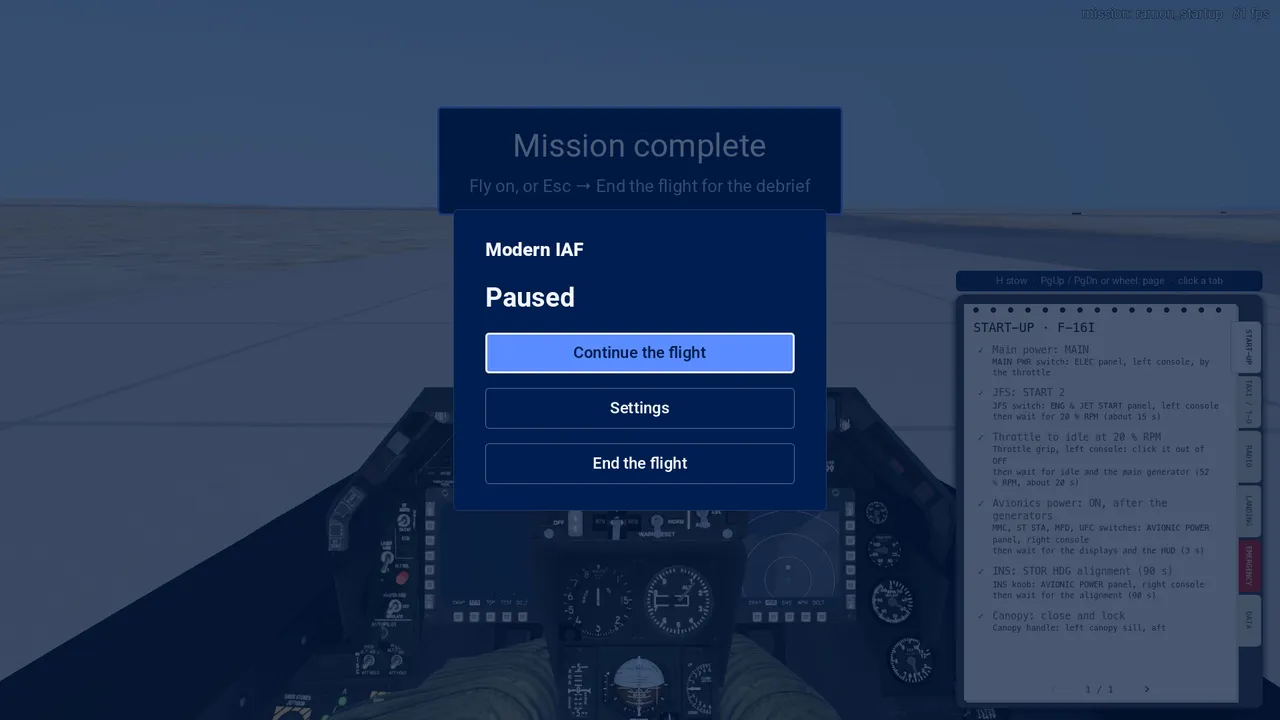
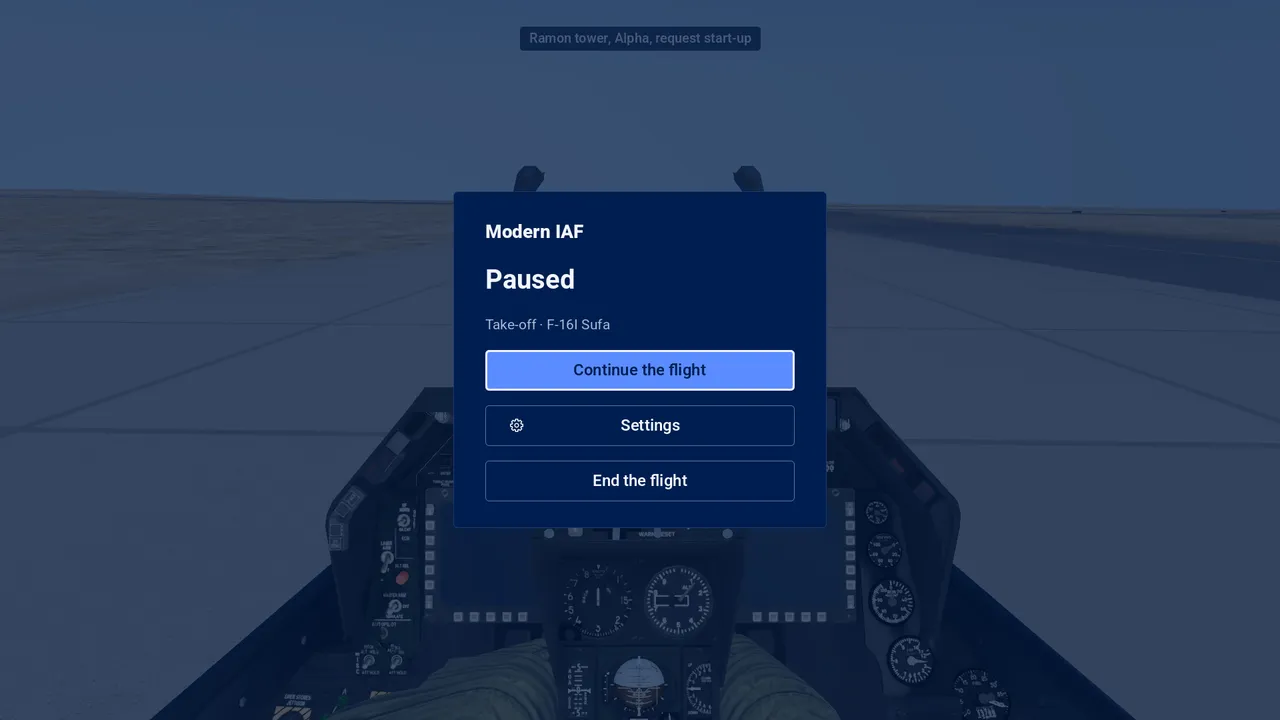
Modern IAF flight path: the pause menu names the mission and jet, the Settings over the flight get the front end's bars (finish list F4)
The pause menu shows "<mission> · <jet>" under Paused. The Settings, Keys and Joystick screens over a flight now have
the front end's top bar (crumbs from Paused, the pilot and the jet) and a footer with Back; a crumb back to the pause
menu applies the settings as Esc does. A row's few choices stand side by side, so the Graphics section fits between
the bars with VSync whole (it was cut at the bottom). training.md §11's frame-cost table and pictures filled; the
docs' pause pictures re-shot with the gear. test_front_end checks the line, the crumb, the Back and the whole section.

Reuse: the front end's own _header / _footer / back_button over the flight; nothing new.

Claude-Session: https://claude.ai/code/session_01HfoaXprFkEdj69GCkKmySt

diff --git a/modern-iaf/docs/front-end.md b/modern-iaf/docs/front-end.md
@@ -48,7 +48,8 @@ a voice; the flight runs on meanwhile. The pilot's notebook (H) and the radio me
 A fail shows a banner with "Fail" and the reason; about 5 s later the flight ends into its debrief
 ([training.md](training.md) §9).
 
-Over a flight, Esc opens the pause menu: Continue the flight, Settings, End the flight. It is laid out on the
+Over a flight, Esc opens the pause menu: the mission and the jet flown ("Take-off · F-16I Sufa"), then Continue the
+flight, Settings, End the flight. It is laid out on the
 front end's canvas scaled to the window and centred by a container, so it sits in the middle at any window size and in
 either language (the Mac run of 2026-11-08: in Hebrew in a 2560 × 1440 window the overlay mirrored its own position
 by its unscaled width and sat off the right edge, its buttons' labels outside the screen). Ending a training flight
@@ -62,6 +63,7 @@ the record's `checks` ([training.md](training.md) §4); every other number stays
 | screen | English | Hebrew |
 |---|---|---|
 | the pause menu over the flight | ![Pause menu](pictures/front-end/pause_en.webp) | ![Pause menu, Hebrew](pictures/front-end/pause_he.webp) |
+| the Settings over the flight: the front end's top bar (the crumb Paused goes back to the pause menu) and a footer with Back | ![Settings over the flight](pictures/front-end/flight_prefs_en.webp) | ![Settings over the flight, Hebrew](pictures/front-end/flight_prefs_he.webp) |
 | a training mission accomplished: the flight paused | ![Mission accomplished](pictures/front-end/accomplished_en.webp) | ![Mission accomplished, Hebrew](pictures/front-end/accomplished_he.webp) |
 | a failed debrief from before the goals and the recording (a take-off with the gear never raised): its numbers, the right column's empty state | ![Failed debrief](pictures/front-end/debrief_fail_en.webp) | ![Failed debrief, Hebrew](pictures/front-end/debrief_fail_he.webp) |
 | the debrief of that flight | ![Debrief after a flight](pictures/front-end/flown_debrief_en.webp) | ![Debrief after a flight, Hebrew](pictures/front-end/flown_debrief_he.webp) |
@@ -246,8 +248,12 @@ centreline in the roll.
 - **Settings** ("Preferences" until 2026-11-14, the approved mocks' word): one screen: the sections listed at the inline start, the picked one's rows beside them (Graphics
   until one is picked; the user, 2026-11-09, of the screen per section: "I liked it more before"). The section's pane
   scrolls over its full height, its scroll bar running from its top to its bottom. A row shows its name and its
-  control, no line under it; a greyed row says why (Scenery without its setup step, §4). Over a flight Esc on the
-  Settings goes back to the pause menu; the Keys and Joystick screens go back to the Settings on Devices. Tried
+  control, no line under it; a greyed row says why (Scenery without its setup step, §4). A row's few choices (Clouds,
+  Buildings and trees, the Devices rows) stand side by side, so the Graphics section fits between the bars at
+  1920 × 1080 with no row cut. Over a flight the Settings, Keys and Joystick screens have the front end's top bar (the
+  crumbs start at Paused, the pilot and the jet at the inline end) and a footer with Back (since 2026-11-16, finish
+  list F4; before, a bare title and no Back); Esc or Back on the Settings goes back to the pause menu, and the Keys
+  and Joystick screens go back to the Settings on Devices. Tried
   2026-11-08 and dropped 2026-11-09: one screen per section, the list as cards with the rows' names under each
   section. Realism and aids have no switch (plan.md "physics";
   the user, 2026-11-08): the sim's `PROFILE` (`modern-iaf/sim_settings.gd`) fixes the original Gameplay page's aids off

diff --git a/modern-iaf/docs/training.md b/modern-iaf/docs/training.md
@@ -515,11 +515,27 @@ checked).
 **The frame cost** (`_notebook_shot.gd` with `NB_BENCH=1`, 1920 x 1080, this Linux laptop's Intel Iris Xe, 300 frames
 each, the scripts' process time and the GPU's render time of the window and the cockpit's world):
 
-NB_BENCH_TABLE
+| head and notebook | GPU, notebook off | GPU, notebook on | the notebook's script |
+|---|---|---|---|
+| stowed, looking ahead (the thigh out of view) | 26.3 ms | 29.8 ms | 0.022 ms |
+| stowed, looking down at it | 43.2 ms | 44.2 ms | 0.031 ms |
+| raised | 34.1 ms | 28.5 ms | 0.011 ms |
+| raised, the training ring in view | 32.4 ms | 32.5 ms | 0.015 ms |
+
+Measured 2026-11-16. The GPU's frame time moves by several ms from run to run on this laptop (the "raised" row is
+faster with the notebook on), so the notebook's GPU cost is within that noise; its script costs under 0.04 ms a
+frame.
 
 **The pictures** (`modern-iaf/tests/_notebook_shot.gd`, a real render, its header):
 
-NB_PICTURES
+| | |
+|---|---|
+| ![The first start-up: the raised notebook with its help line](pictures/notebook/first_training.webp) | ![Raised at START-UP, the step to take now on its yellow band](pictures/notebook/raised_en.webp) |
+| ![The Hebrew notebook, mirrored](pictures/notebook/raised_he.webp) | ![The RADIO page: Ramon's frequencies and the calls](pictures/notebook/radio.webp) |
+| ![A section's second page, ‹ and › both live](pictures/notebook/pages.webp) | ![Stowed on the right thigh](pictures/notebook/stowed.webp) |
+| ![The training ring on the RPM gauge, the notebook slid down off it](pictures/notebook/training.webp) | ![A step's part out of the view: the pointer at the screen's edge](pictures/notebook/edge.webp) |
+
+Taken 2026-11-16 at 1920 x 1080 on this Linux laptop.
 
 **Checks.** `modern-iaf/tests/test_notebook.gd` (headless): the start-up mission raises it at START-UP with the first
 step current and no key on the page, the help line once, H stows it into the thigh's texture and raises it (K leaves it), a step

diff --git a/modern-iaf/docs/status.md b/modern-iaf/docs/status.md
@@ -3,6 +3,10 @@
 What works and what is open, by work item ([plan.md](plan.md)). Newest first.
 
 ## Works
+- **The pause menu and the Settings over a flight (2026-11-16, the finish list's F4, [front-end.md](front-end.md)
+  §8, §9):** the pause menu names the mission and the jet; the Settings, Keys and Joystick screens over the flight
+  have the front end's top bar (crumbs from Paused) and a footer with Back; a row's choices side by side, so Graphics
+  fits with VSync whole. The notebook's frame cost and pictures in [training.md](training.md) §11.
 - **The debrief (2026-11-15, the front-end finish list's F5, [front-end.md](front-end.md) §13):** the approved
   r3_debrief: the sheet with the goals (target, flown figure, ✓ / !) and "Next time:" from the Rust scorer, the whole
   flight on the map (the track coloured by phase, the planned route, Start / Lift-off / End pins with their times, the
